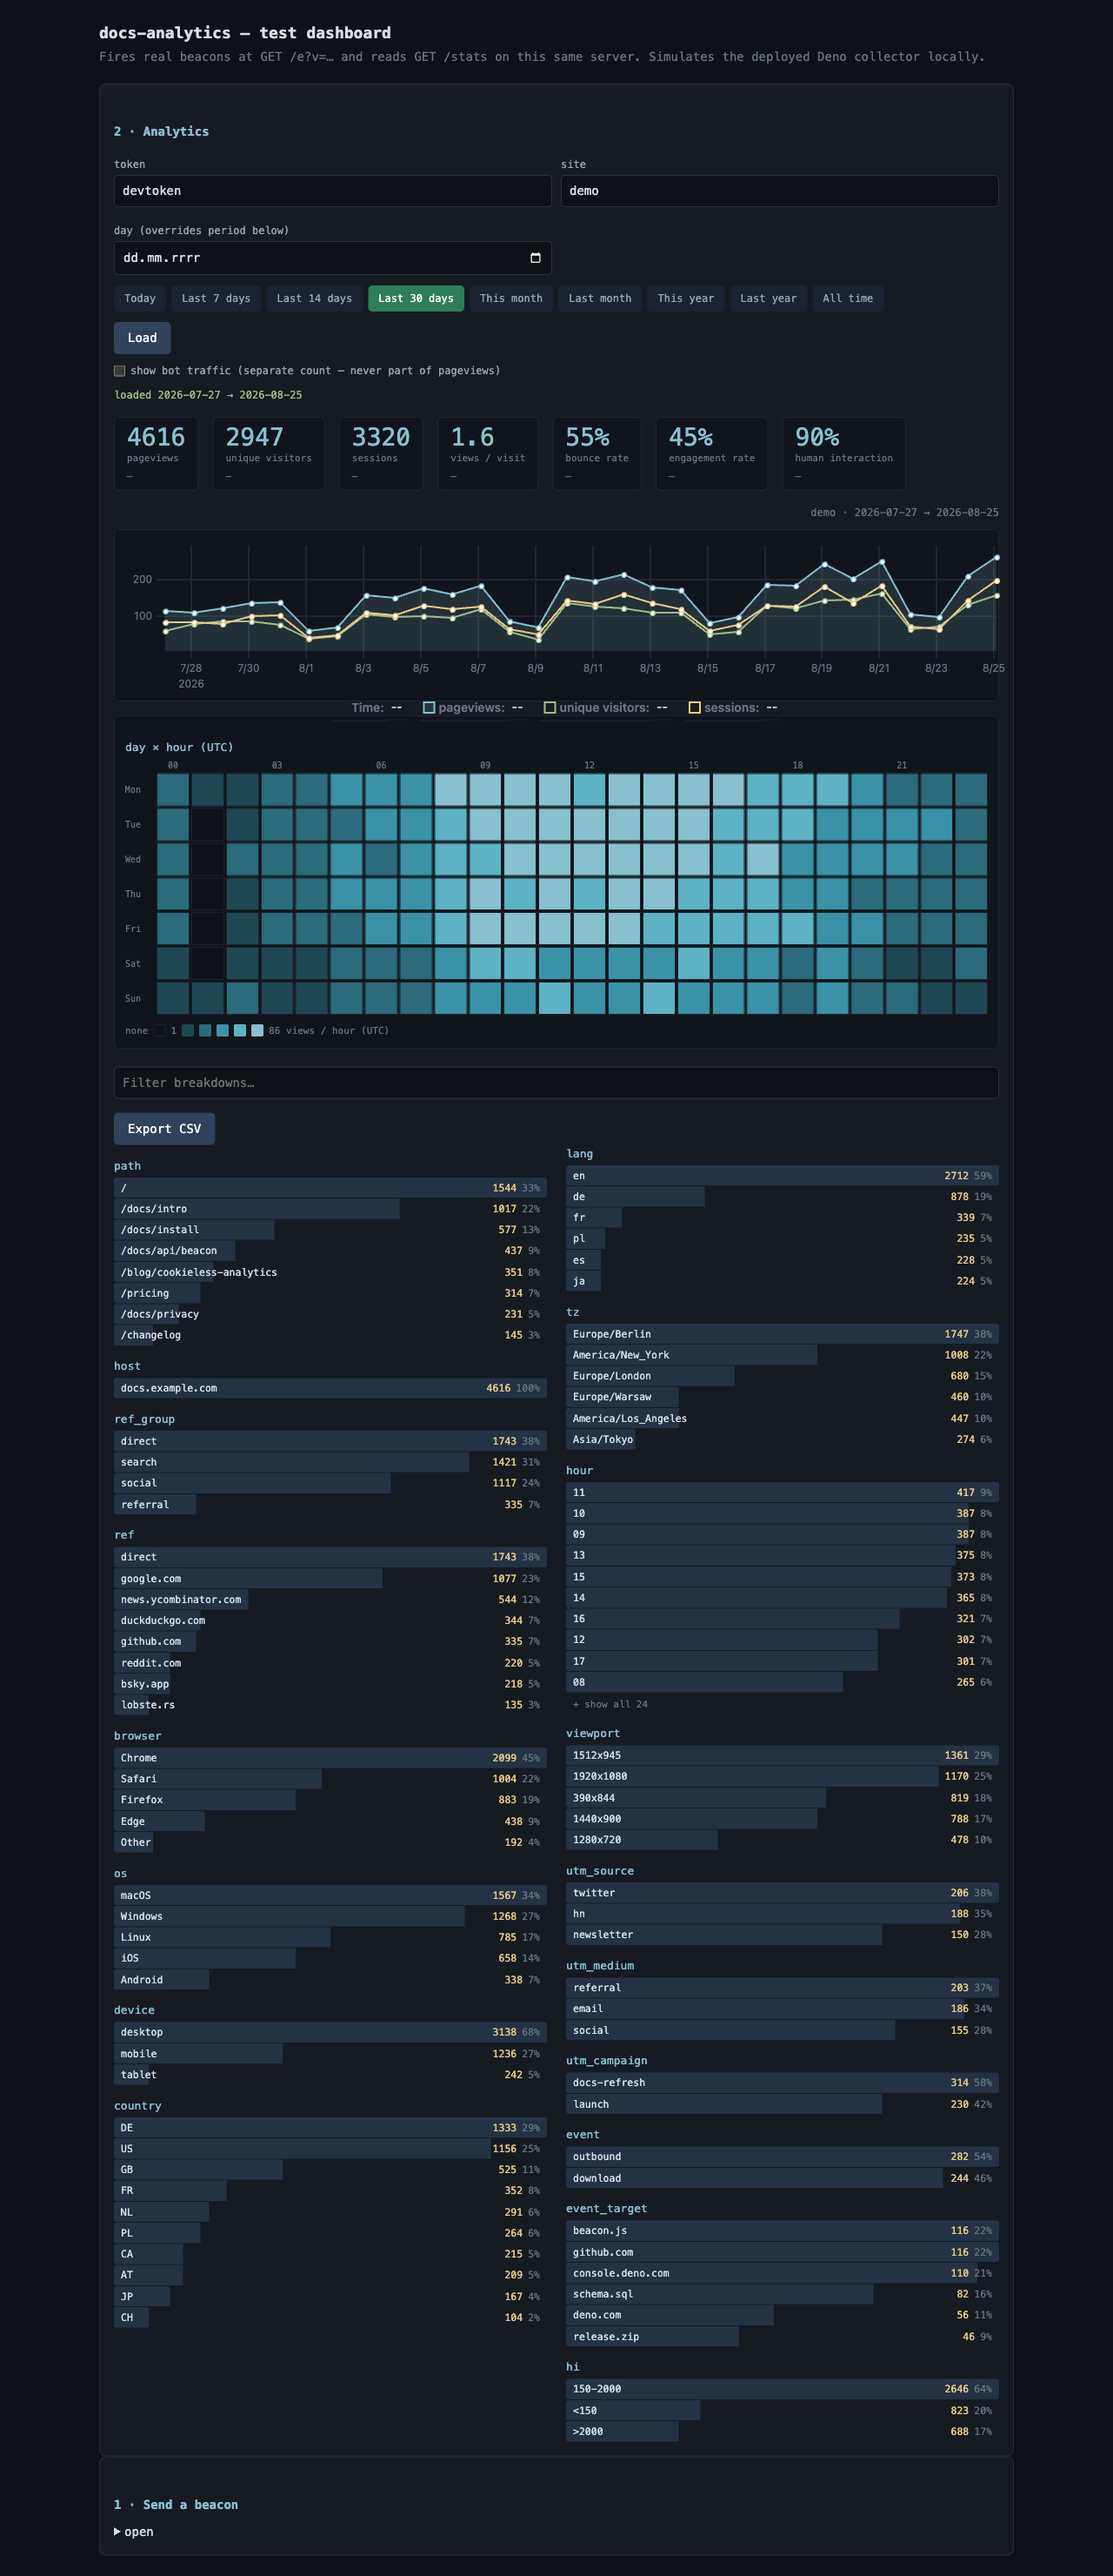
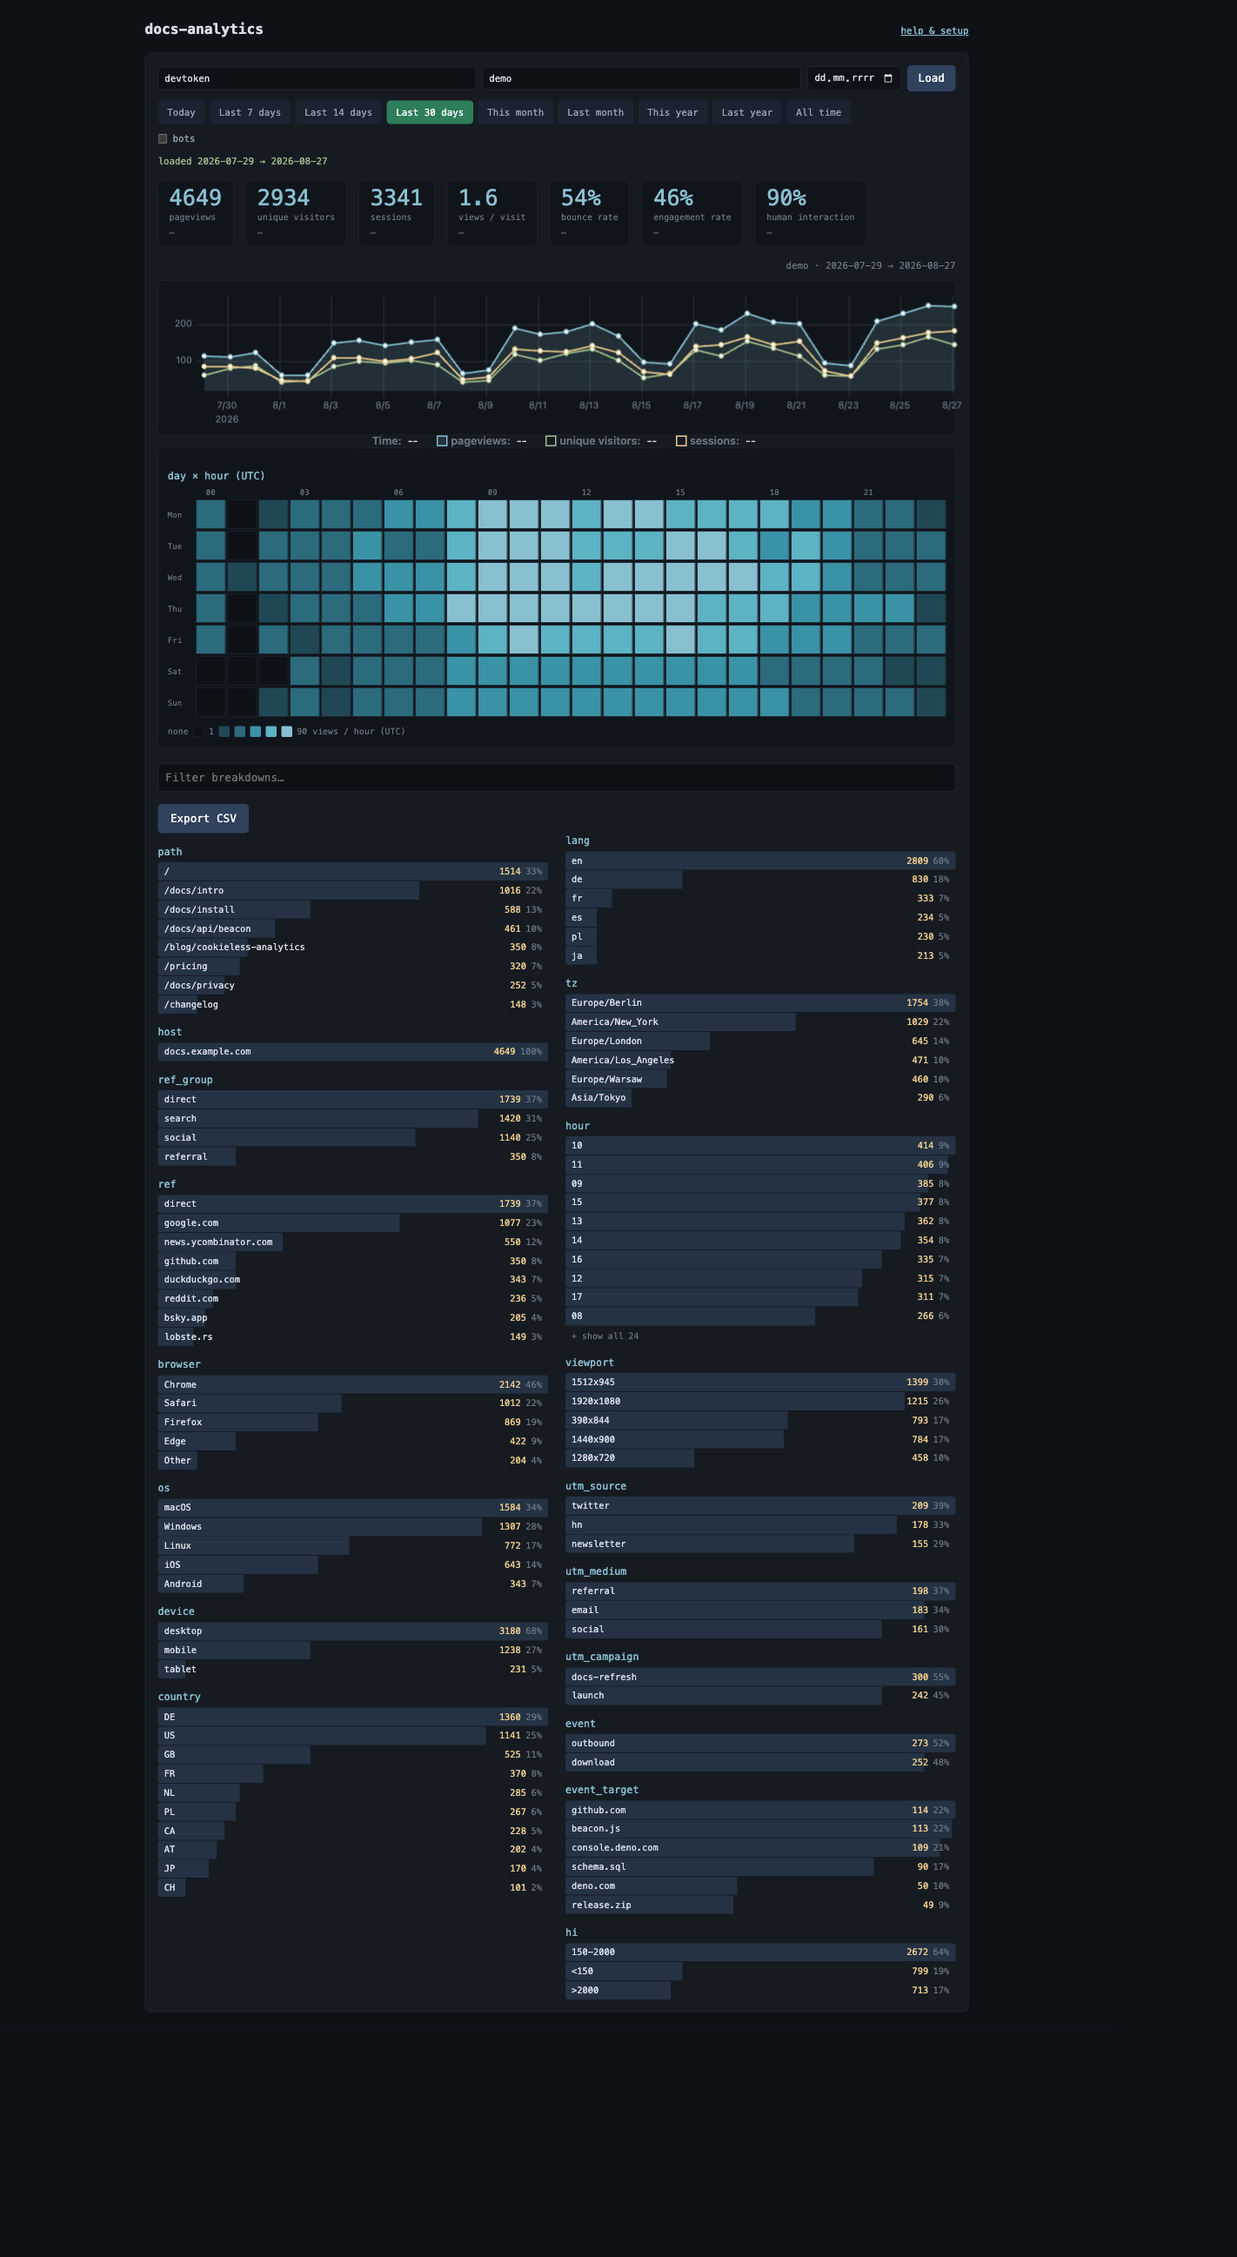
docs: refresh for /help and the split dashboard assets
- intro/README local-run now points at /help, where the beacon and seed tools
  moved to.
- dashboard.md: /help documented (the five checks and what each one probes),
  endpoint list gains /help and the UI asset routes, /sites note on why a
  per-site token 401s there.
- example.md: KPI list was missing views/visit and engagement rate; note why
  the deltas read "—" over seeded data.
- regenerate dashboard.png from `deno task demo` — the old shot still had the
  "test dashboard" heading and the three-column control form.

diff --git a/website/docs/dashboard.md b/website/docs/dashboard.md
@@ -22,8 +22,13 @@ description: Endpoints, auth model and what the dashboard renders.
   today (UTC). Range: `&from=…&to=…` (inclusive) merges into totals. Add
   `&series=1` for a per-day series (`[[day, pv, uv, sessions, bot], …]`).
   **401** on a bad token _or_ an unresolved site.
-- **`GET /sites`** — `[{id, host}]`, **admin token only**.
-- **`GET /dashboard`** — the UI. `GET /` — `ok`.
+- **`GET /sites`** — `[{id, host}]`, **admin token only**. Powers the
+  dashboard's site picker; a per-site token gets 401 there and you type the id.
+- **`GET /dashboard`** — the analytics UI. **`GET /help`** — guided setup.
+  Both are served ungated: they hold no secret, the token is typed into the page,
+  and a new operator has to reach `/help` *before* they have a working token.
+  Their assets (`/dashboard.css`, `/dashboard.js`, `/dash-charts.js`,
+  `/da-common.js`, `/help.js`) are served the same way. `GET /` — `ok`.
 
 ## Auth
 
@@ -49,6 +54,24 @@ toggling only re-renders the already-loaded payload. The CSV export always
 includes the bot dims.
 
 See [Example dashboard](./example.md) for a screenshot of the whole thing.
+
+## `/help`
+
+Setup, with a **Check** button on every step rather than a description of what
+should happen:
+
+1. collector reachable — `GET /` returns `ok`;
+2. site id + token — one `/stats` probe, which 401s both for a wrong token and
+   for a site that token does not own;
+3. script tag installed — the snippet is rendered prefilled with your site id and
+   this origin, and the check looks for pageviews in the last two days;
+4. real traffic — the `host` dim contains the origin you pasted the tag on;
+5. a second project — the other site id is live and readable.
+
+Every check uses an endpoint that already exists, so nothing here can drift from
+what the server actually does. The page also hosts the test-beacon and _Seed 30
+random_ tools, which is what makes steps 3–4 checkable before real traffic
+arrives.
 
 ## The `dowhour` exception
 

diff --git a/website/docs/example.md b/website/docs/example.md
@@ -22,8 +22,11 @@ Below: `Last 30 days` over that seeded data.
 
 What is on screen, top to bottom:
 
-- **KPI tiles** — pageviews, visitors, sessions, bounce rate, human interaction,
-  each with its delta against the prior period of equal length.
+- **KPI tiles** — pageviews, visitors, sessions, views/visit, bounce rate,
+  engagement rate, human interaction, each with its delta against the prior
+  period of equal length. The deltas read `—` in the screenshot because the
+  seeded data starts exactly 30 days back: there is no prior period to compare
+  against.
 - **Trend chart** (uPlot, vendored — no CDN) — pageviews / visitors / sessions,
   plus a dashed `bots` line when _show bot traffic_ is on.
 - **Day × hour heatmap** — rendered from the `dowhour` joint counter, the one

diff --git a/website/docs/intro.md b/website/docs/intro.md
@@ -32,9 +32,9 @@ deno task build-client   # src/client/beacon.ts -> src/s.js
 deno task dev            # http://localhost:8123  (STATS_TOKEN=devtoken, SITES=demo:localhost:8123)
 ```
 
-Then open **http://localhost:8123/dashboard** — the same code that deploys. Pick
-the site (`demo`), send a beacon (or "Seed 30 random"), then Load with token
-`devtoken`.
+Then open **http://localhost:8123/help** — the same code that deploys. Enter
+token `devtoken` and site `demo`, run the checks, send a beacon (or "Seed 30
+random"), then switch to **/dashboard** to read it back.
 
 To browse a populated UI without any real data, `deno task demo` boots the real
 handler over an in-memory KV seeded with 30 days of deterministic fake traffic.
